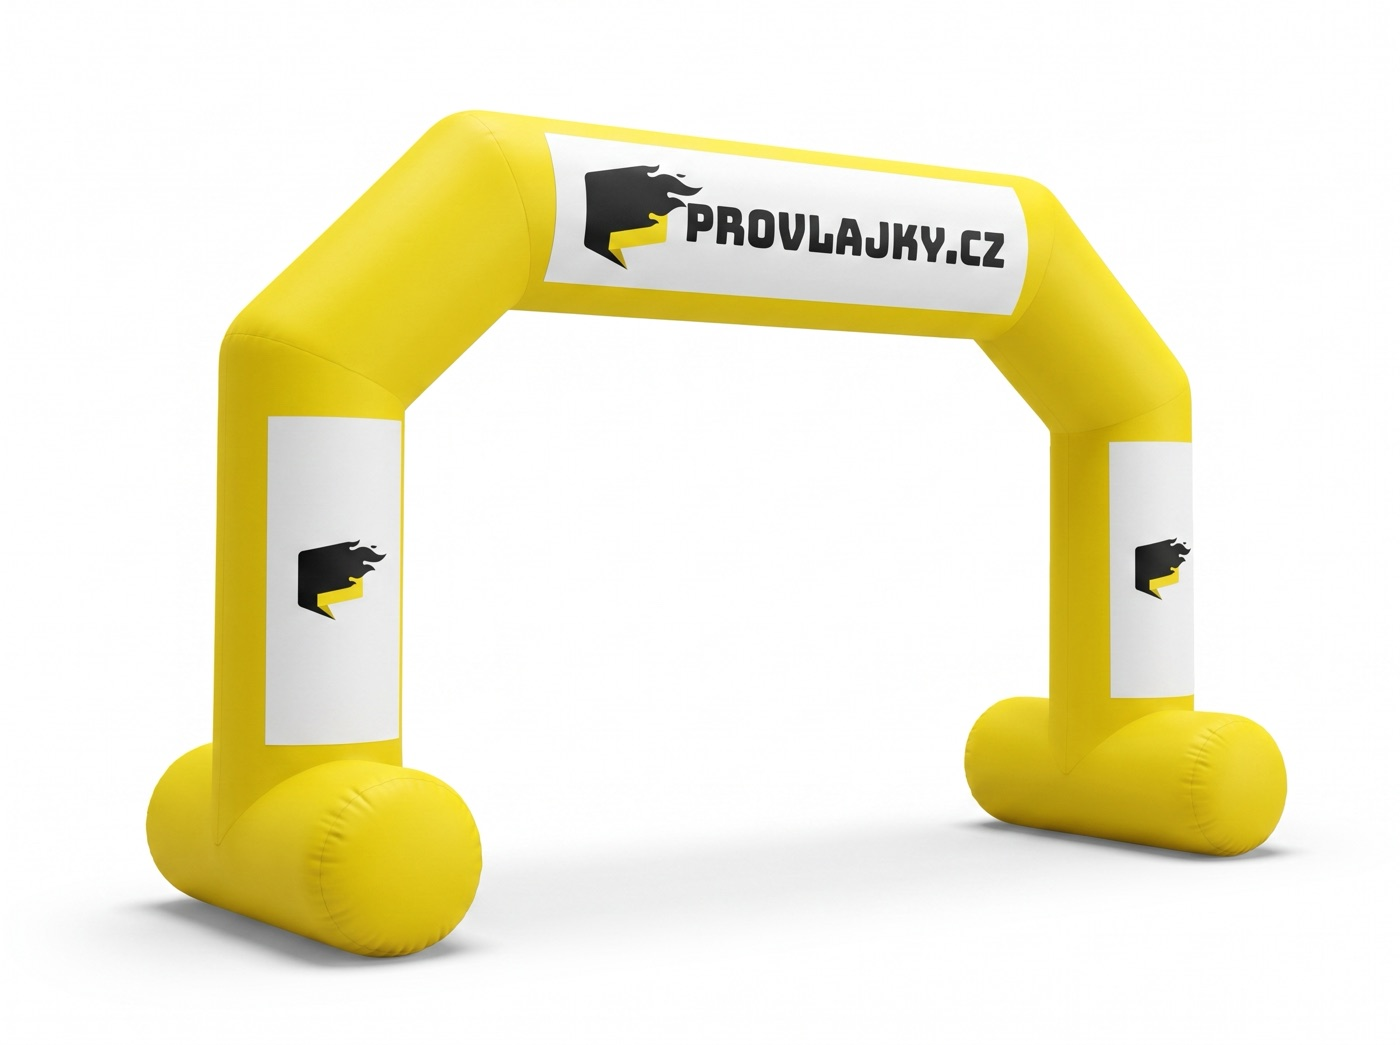
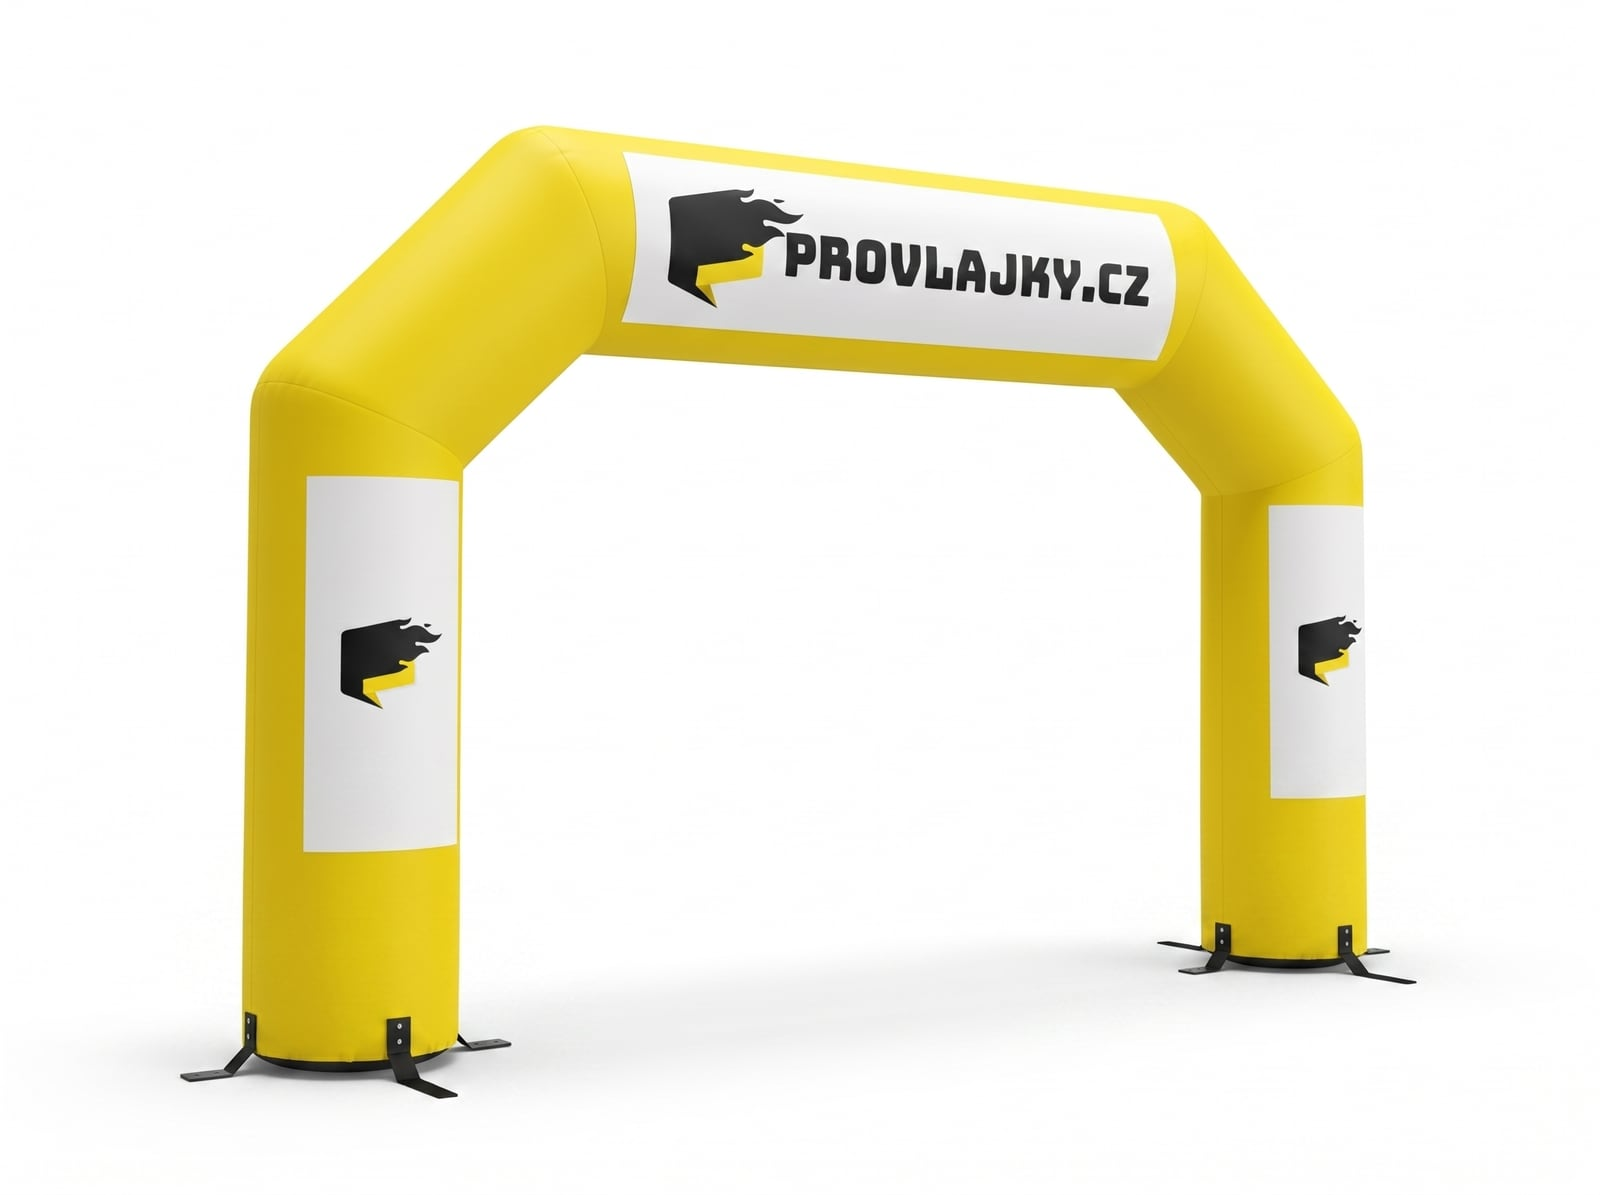
feat(eshop): produktové snímky — stany podle rozměru, PVC vs. mesh, vlajka, brána
Nová jednotná studiová série (Viewmax, světlé pozadí, shodné světlo i natočení):
- nůžkové stany 3×3 / 3×4,5 / 3×6 — rovný lem místo vlnitého, plně roztažená
  konstrukce, logo PROVLAJKY na čelní stěně; 3×6 má prostřední tyče, 3×4,5 ne
- PVC banner a mesh nově rozlišené: mesh má viditelnou perforaci a ohnutý roh
- plážová vlajka s logem, elektrický kompresor
- nafukovací brána bez spodních patek (nahrazeno plochými kotvicími plotnami)

Odebrán vlnitý stan (real-full/half/none) ze všech dlaždic, galerie i z disku —
takový model se nevyrábí. Dlaždice "stany" na homepage je šikmá kombinace
nůžkového a nafukovacího stanu, složená lokálně přes sharp.

Cesty k obrázkům přepsané i v products.images v Supabase.

diff --git a/eshop/src/components/Nova2Client.tsx b/eshop/src/components/Nova2Client.tsx
@@ -16,16 +16,16 @@ import RegisterForm from "@/components/RegisterForm";
 import type { ProductCategory } from "@/lib/types";
 
 // Tři hlavní produktové rodiny — ostré vstupní dlaždice hned pod herem.
-// TODO: "vlajky" a "stany" ještě nahradit vygenerovanými produktovými
-// snímky s bílým pozadím (Viewmax generování obrázků teď nejde kvůli
-// neaktivnímu předplatnému — jakmile bude dostupné, doplnit sem).
+// Všechny tři používají studiové produktové snímky na světlém pozadí, aby
+// řada držela jednotný vzhled. Dlaždice "stany" je šikmá kombinace nůžkového
+// a nafukovacího stanu (skládá se lokálně, viz public/stany).
 const HOME_GROUPS = [
   {
     id: "vlajky",
     title: "Plážové vlajky",
     href: "/plazove-vlajky",
     note: "Šest tvarů, potisk na míru, cenu vidíte hned v konfigurátoru.",
-    img: "/hero/plazove-vlajky.jpg",
+    img: "/produkty/plazova-vlajka.jpg",
   },
   {
     id: "bannery",
@@ -39,7 +39,7 @@ const HOME_GROUPS = [
     title: "Nůžkové a nafukovací stany",
     href: "/stany",
     note: "Skládací i nafukovací konstrukce s potiskem na míru.",
-    img: "/hero/nafukovaci-stan.jpg",
+    img: "/stany/nuzkovy-nafukovaci.jpg",
   },
 ] as const;
 

diff --git a/eshop/src/app/produkt/[slug]/page.tsx b/eshop/src/app/produkt/[slug]/page.tsx
@@ -47,7 +47,7 @@ const FALLBACK_GALLERY: Record<ProductCategory, string[]> = {
     "/prislusenstvi/tezka-zelezna-zakladna.jpg",
     "/prislusenstvi/zapich-pro-vlajku.jpg",
   ],
-  "nuzkove-stany": ["/stany/real-full.jpg", "/stany/real-half.jpg", "/stany/real-none.jpg", "/produkty/dily-stany.jpg"],
+  "nuzkove-stany": ["/stany/nuzkovy-3x3.jpg", "/stany/nuzkovy-3x45.jpg", "/stany/nuzkovy-3x6.jpg", "/produkty/dily-stany.jpg"],
   "nafukovaci-stany": ["/stany/nafukovaci.jpg", "/hero/nafukovaci-stan.jpg", "/produkty/nafukovaci-stan.jpg"],
   totemy: ["/produkty/nafukovaci-totem.jpg"],
   "nafukovaci-brany": ["/produkty/nafukovaci-brana.jpg"],

diff --git a/eshop/src/app/stany/page.tsx b/eshop/src/app/stany/page.tsx
@@ -16,7 +16,7 @@ const GROUPS = [
     href: "/nuzkove-stany",
     title: "Nůžkové stany",
     note: "Skládací hliníková konstrukce, rozložený za minutu.",
-    img: "/stany/real-full.jpg",
+    img: "/stany/nuzkovy-3x3.jpg",
   },
   {
     href: "/nafukovaci-stany",

diff --git a/eshop/src/components/NovaFields.tsx b/eshop/src/components/NovaFields.tsx
@@ -90,7 +90,7 @@ const TILES: Tile[] = [
     cta: "Vybrat stan",
     tone: "studio",
     fit: "contain",
-    img: "/stany/real-full.jpg",
+    img: "/stany/nuzkovy-3x3.jpg",
   },
   {
     id: "prislusenstvi",
